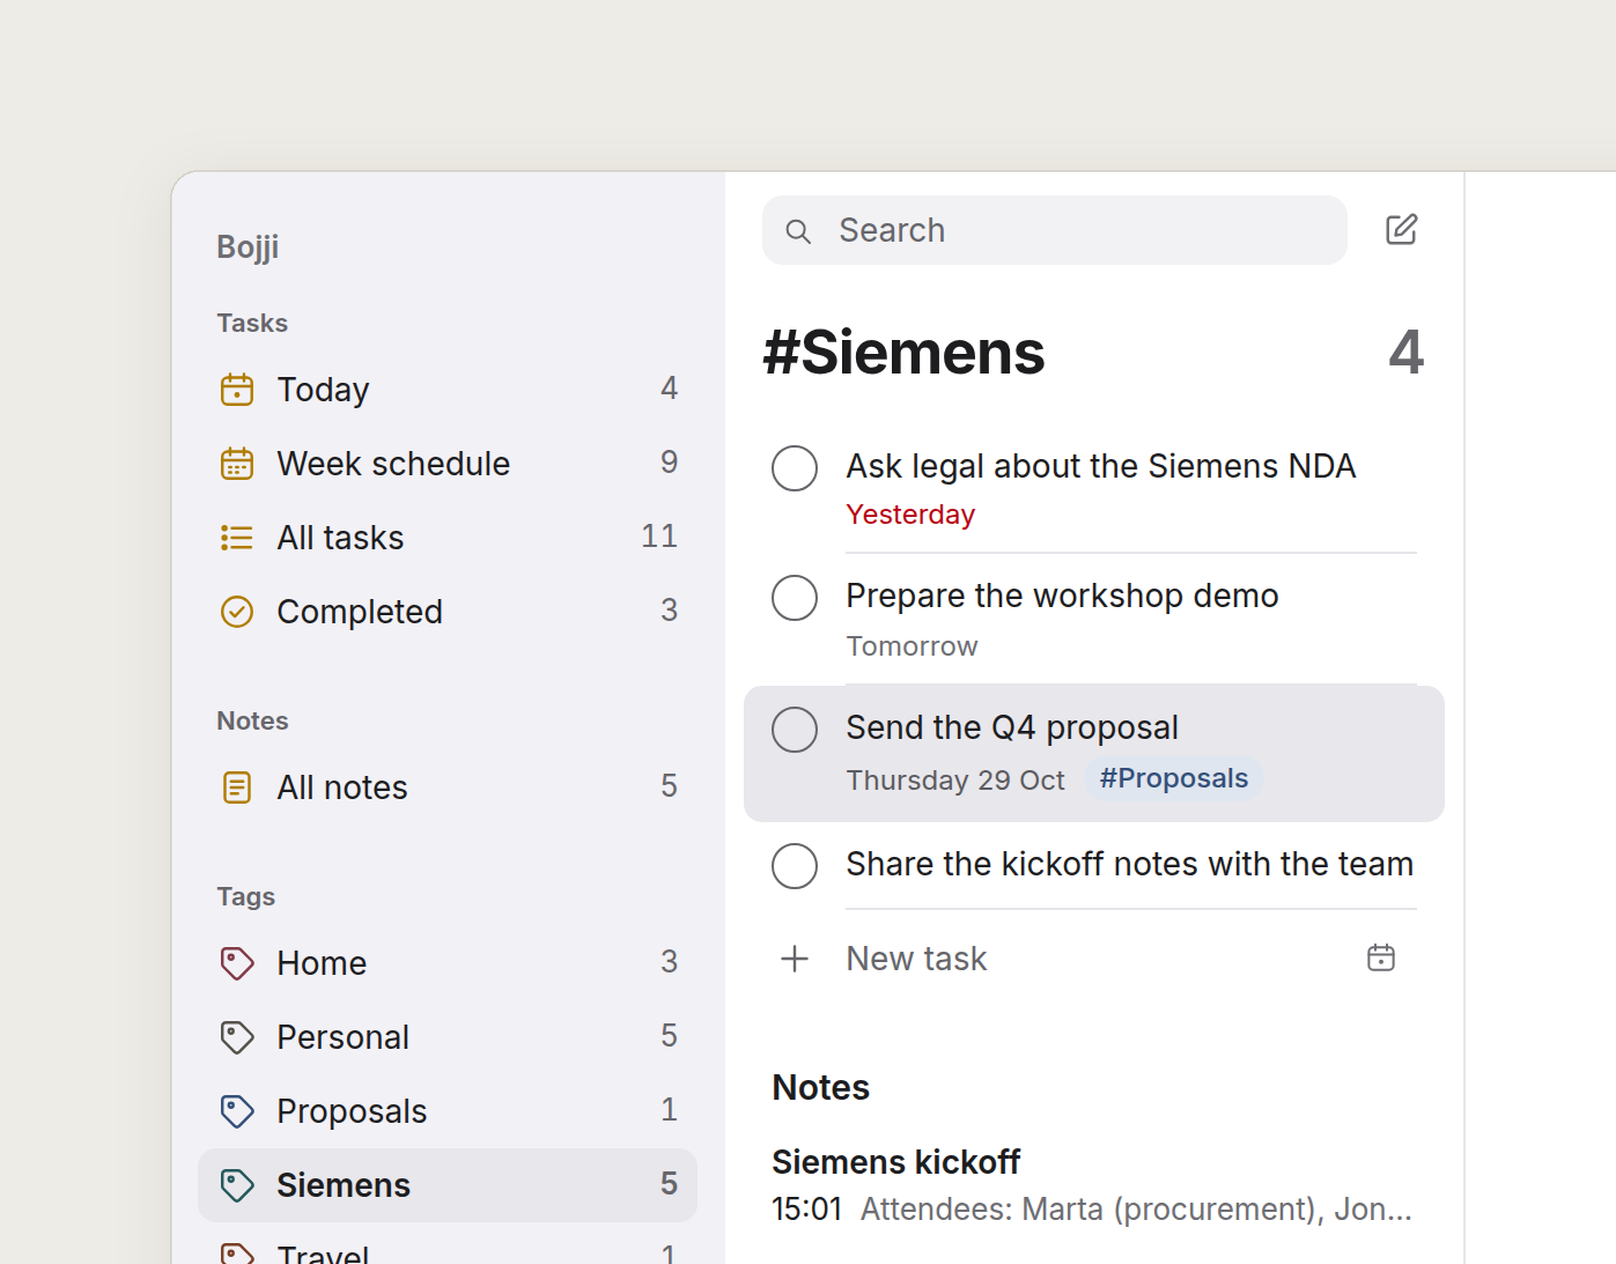
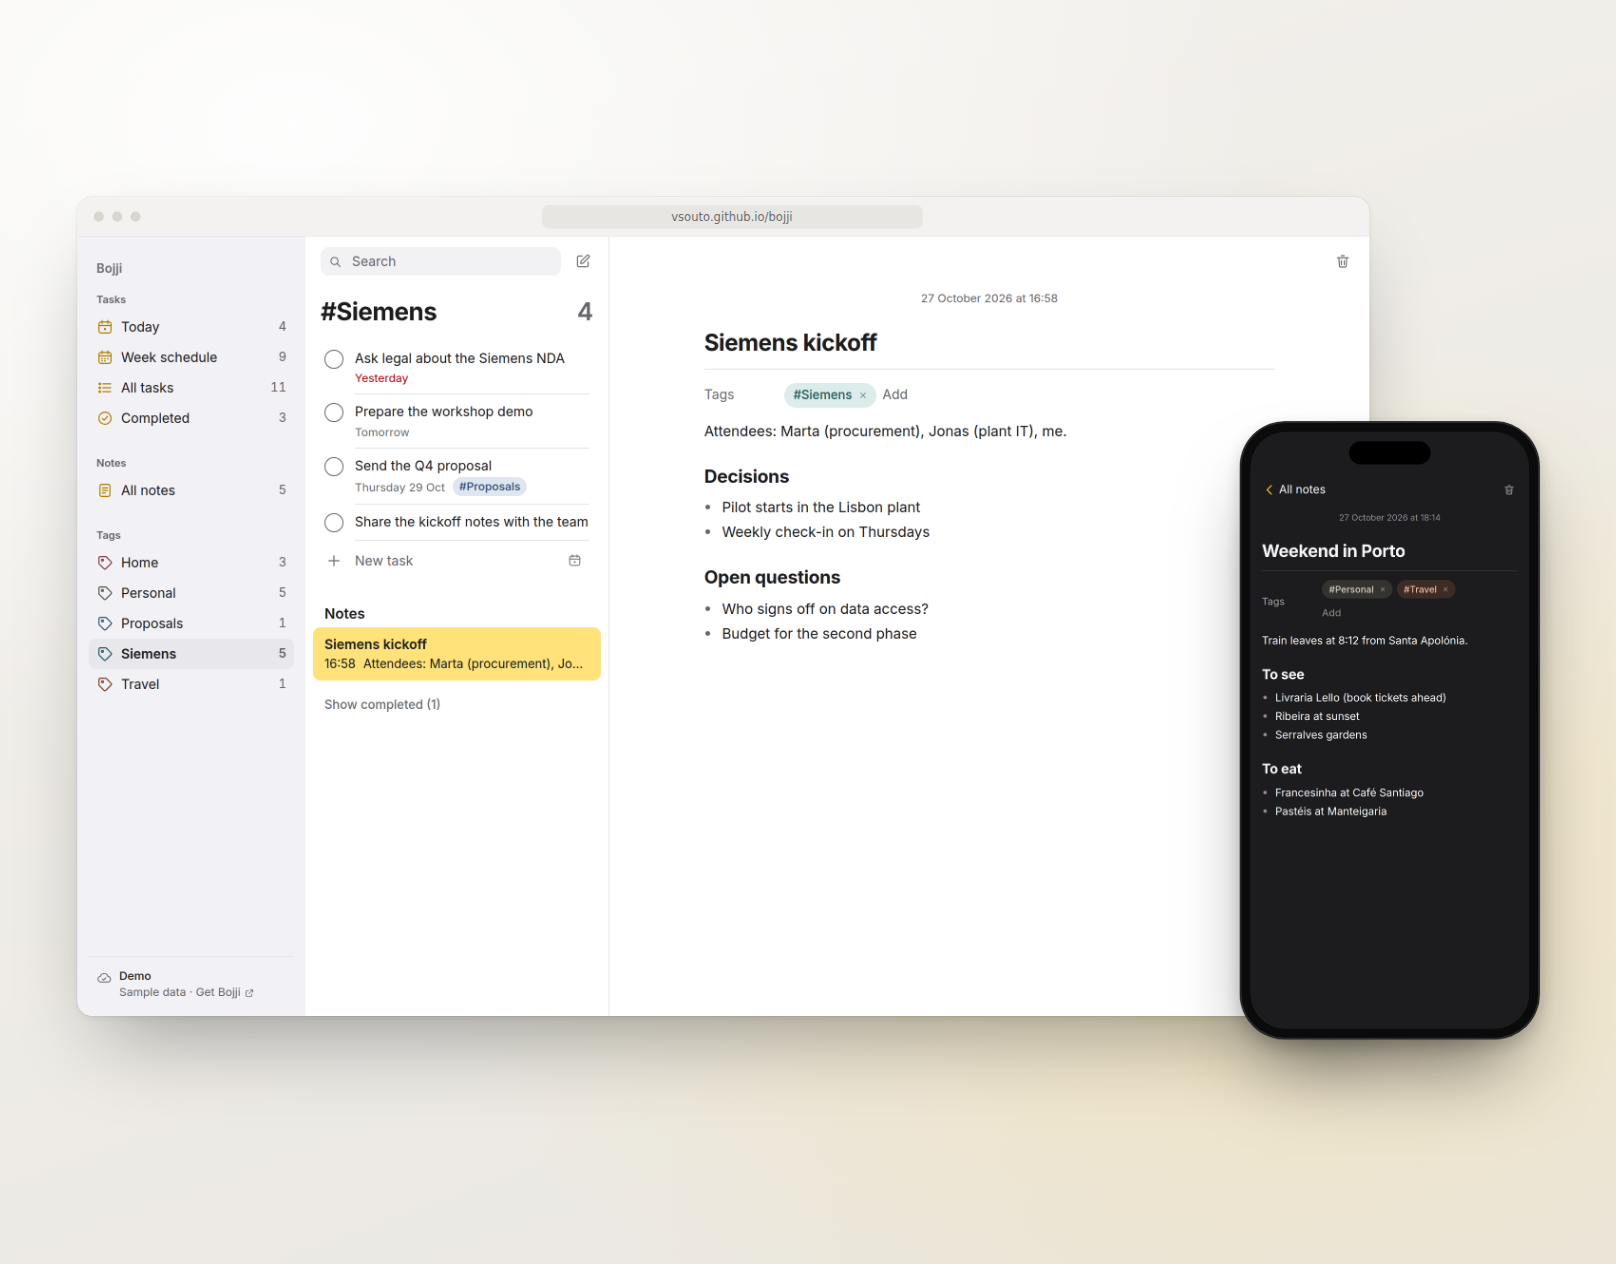
Bojji: laptop and phone hero, new social card and home cover

diff --git a/projects/bojji.html b/projects/bojji.html
@@ -18,7 +18,7 @@
 <meta property="og:image" content="https://vsouto.com/assets/projects/bojji/og.png">
 <meta property="og:image:width" content="1200">
 <meta property="og:image:height" content="630">
-<meta property="og:image:alt" content="Bojji showing the Siemens tag: four open tasks with due dates, a note, and the task Send the Q4 proposal open with its tags and due date.">
+<meta property="og:image:alt" content="Bojji: free notes and tasks that live in your own GitHub. The app on a laptop in light mode and a phone in dark mode.">
 <meta name="twitter:card" content="summary_large_image">
 <meta name="twitter:title" content="Bojji — notes and tasks kept in your own GitHub">
 <meta name="twitter:description" content="Free and open source. Notes and tasks as plain Markdown in a private repository you own, with every save a commit. No storage servers, nothing to pay for sync.">
@@ -31,7 +31,7 @@
 <link rel="stylesheet" href="/assets/css/site.css">
 <!-- Shares the product-page layout of the c4x page. -->
 <link rel="stylesheet" href="/assets/css/c4x.css">
-<link rel="preload" as="image" type="image/webp" imagesrcset="/assets/projects/bojji/tag-light-960.webp 960w, /assets/projects/bojji/tag-light-1600.webp 1600w" imagesizes="(min-width: 1120px) 1040px, calc(100vw - 40px)">
+<link rel="preload" as="image" type="image/webp" imagesrcset="/assets/projects/bojji/hero-960.webp 960w, /assets/projects/bojji/hero-1600.webp 1600w, /assets/projects/bojji/hero-2400.webp 2400w" imagesizes="(min-width: 1120px) 1040px, calc(100vw - 40px)">
 
 <script type="application/ld+json">
 {
@@ -129,8 +129,8 @@
   </section>
 
   <figure class="x-shot x-shot-hero shell">
-    <picture class=""><source type="image/webp" srcset="/assets/projects/bojji/tag-light-960.webp 960w, /assets/projects/bojji/tag-light-1600.webp 1600w" sizes="(min-width: 1120px) 1040px, calc(100vw - 40px)"><img src="/assets/projects/bojji/tag-light.png" width="1600" height="1000" alt="Bojji with the Siemens tag selected: four open tasks with their due dates, the Siemens kickoff note below them, and the task Send the Q4 proposal open with its tags and a due date of Thursday 29 October." loading="eager" fetchpriority="high" decoding="async"></picture>
-    <figcaption>Clicking a tag gathers everything that carries it: open tasks, notes and, one click away, the completed ones. Sample data.</figcaption>
+    <picture class=""><source type="image/webp" srcset="/assets/projects/bojji/hero-960.webp 960w, /assets/projects/bojji/hero-1600.webp 1600w, /assets/projects/bojji/hero-2400.webp 2400w" sizes="(min-width: 1120px) 1040px, calc(100vw - 40px)"><img src="/assets/projects/bojji/hero.jpg" width="1600" height="1000" alt="Bojji on a laptop and a phone. On the laptop, in light mode, the Siemens tag gathers four open tasks and the Siemens kickoff note, open beside them with its Decisions and Open questions. On the phone, in dark mode, the note Weekend in Porto with Personal and Travel tags." loading="eager" fetchpriority="high" decoding="async"></picture>
+    <figcaption>The same notes and tasks on a laptop and a phone, in light and dark mode. Clicking a tag gathers everything that carries it. Sample data.</figcaption>
   </figure>
 
   <section class="shell x-facts" aria-label="At a glance">
